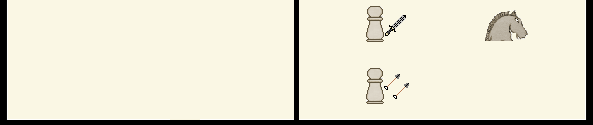
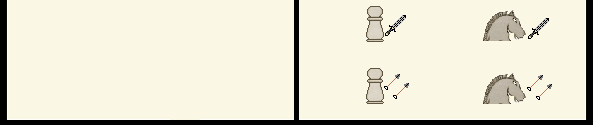
Update 0.6.2.6
- Add filter troop list function in custom unit editor.

Changed region(s): [[0.7892, 0.072, 0.941, 0.336], [0.7892, 0.576, 0.941, 0.84], [0.9106, 0.6, 0.941, 0.624]]

diff --git a/gamescript/gamebattle.py b/gamescript/gamebattle.py
@@ -214,7 +214,8 @@ class Battle:
         self.death_troopnumber = [0, 0, 0]
         self.flee_troopnumber = [0, 0, 0]
         self.capture_troopnumber = [0, 0, 0]
-        self.filtertroop = [True, True, True]
+        self.factionpick = 0
+        self.filtertroop = [True, True, True, True]
         self.last_selected = None
         self.before_selected = None
 
@@ -683,6 +684,48 @@ class Battle:
                             icon.kill()
                 break
 
+    def filtertrooplist(self):
+        """Filter troop list based on faction picked and type filter"""
+        if self.factionpick != 0:
+            self.troop_list = [item[1][0] for item in self.gameunitstat.unit_list.items()
+                               if item[1][0] == "None" or
+                               item[0] in self.allfaction.faction_list[self.factionpick][1]]
+            self.troop_index_list = [0] + self.allfaction.faction_list[self.factionpick][1]
+
+        else:  # pick all faction
+            self.troop_list = [item[0] for item in self.gameunitstat.unit_list.values()][1:]
+            self.troop_index_list = list(range(0, len(self.troop_list)))
+
+        print(self.troop_index_list)
+        print(self.troop_list)
+        for unit in self.troop_index_list[::-1]:
+            if unit != 0:
+                if self.filtertroop[0] is False:  # filter out melee infantry
+                    if self.gameunitstat.unit_list[unit][8] > self.gameunitstat.unit_list[unit][12] and \
+                            self.gameunitstat.unit_list[unit][29] == [1, 0, 1]:
+                        self.troop_list.pop(self.troop_index_list.index(unit))
+                        self.troop_index_list.remove(unit)
+
+                if self.filtertroop[1] is False:  # filter out range infantry
+                    if self.gameunitstat.unit_list[unit][22] != [1, 0] and \
+                            self.gameunitstat.unit_list[unit][8] < self.gameunitstat.unit_list[unit][12] and \
+                            self.gameunitstat.unit_list[unit][29] == [1, 0, 1]:
+                        self.troop_list.pop(self.troop_index_list.index(unit))
+                        self.troop_index_list.remove(unit)
+
+                if self.filtertroop[2] is False:  # filter out melee cav
+                    if self.gameunitstat.unit_list[unit][8] > self.gameunitstat.unit_list[unit][12] and \
+                            self.gameunitstat.unit_list[unit][29] != [1, 0, 1]:
+                        self.troop_list.pop(self.troop_index_list.index(unit))
+                        self.troop_index_list.remove(unit)
+
+                if self.filtertroop[3] is False:  # filter out range cav
+                    if self.gameunitstat.unit_list[unit][22] != [1, 0] and \
+                            self.gameunitstat.unit_list[unit][8] < self.gameunitstat.unit_list[unit][12] and \
+                            self.gameunitstat.unit_list[unit][29] != [1, 0, 1]:
+                        self.troop_list.pop(self.troop_index_list.index(unit))
+                        self.troop_index_list.remove(unit)
+
     def changestate(self):
         self.previous_gamestate = self.gamestate
         if self.gamestate == 1:  # change to battle state
@@ -811,6 +854,8 @@ class Battle:
 
             del self.currentweather
 
+            self.factionpick = 0
+            self.filtertroop = [True, True, True, True]
             self.troop_list = [item[0] for item in self.gameunitstat.unit_list.values()][
                               1:]  # reset troop filter back to all faction
             self.troop_index_list = list(range(0, len(self.troop_list) + 1))
@@ -1897,12 +1942,9 @@ class Battle:
                                                     self.current_troop_row = 0
 
                                                     if mouse_up:
+                                                        self.factionpick = index
+                                                        self.filtertrooplist()
                                                         if index != 0:  # pick faction
-                                                            self.troop_list = [item[1][0] for item in self.gameunitstat.unit_list.items()
-                                                                               if item[1][0] == "None" or
-                                                                               item[0] in self.allfaction.faction_list[index][1]]
-                                                            self.troop_index_list = [0] + self.allfaction.faction_list[index][1]
-
                                                             self.leader_list = [item[1][0] for thisindex, item in
                                                                                 enumerate(self.leader_stat.leader_list.items())
                                                                                 if thisindex > 0 and (item[1][0] == "None" or
@@ -1910,9 +1952,6 @@ class Battle:
                                                                                                       item[0] in self.allfaction.faction_list[index][2])]
 
                                                         else:  # pick all faction
-                                                            self.troop_list = [item[0] for item in self.gameunitstat.unit_list.values()][1:]
-                                                            self.troop_index_list = list(range(0, len(self.troop_list) + 1))
-
                                                             self.leader_list = self.leader_list = [item[0] for item in
                                                                                                    self.leader_stat.leader_list.values()][1:]
 
@@ -2058,12 +2097,20 @@ class Battle:
                                                             box.changetick(True)
                                                         else:
                                                             box.changetick(False)
-                                                        if box.option == "melee":
+                                                        if box.option == "meleeinf":
                                                             self.filtertroop[0] = box.tick
-                                                        elif box.option == "range":
+                                                        elif box.option == "rangeinf":
                                                             self.filtertroop[1] = box.tick
-                                                        elif box.option == "cavalry":
+                                                        elif box.option == "meleecav":
                                                             self.filtertroop[2] = box.tick
+                                                        elif box.option == "rangecav":
+                                                            self.filtertroop[3] = box.tick
+                                                        if self.current_list_show == "troop":
+                                                            self.current_troop_row = 0
+                                                            self.filtertrooplist()
+                                                            self.main.setuplist(gameprepare.Namelist, self.current_troop_row, self.troop_list,
+                                                                                self.troop_namegroup,
+                                                                                self.troop_listbox, self.battleui)  # setup troop name list
                                     elif self.terrain_change_button.rect.collidepoint(self.mousepos) and mouse_up:  # change map terrain button
                                         self.uiclick = True
                                         self.popuplist_newopen(self.terrain_change_button.rect.midtop, self.battlemap_base.terrainlist, "terrain")

diff --git a/main.py b/main.py
@@ -448,13 +448,16 @@ try:  # for printing error log when error exception happen
             img1 = load_image("tick_box_no.png", "ui\\mainmenu_ui").convert()  # start test button in editor
             img2 = load_image("tick_box_yes.png", "ui\\mainmenu_ui").convert()  # stop test button
             self.tickbox_filter = [gameprepare.Tickbox((self.filterbox.rect.bottomright[0] / 1.26, self.filterbox.rect.bottomright[1] / 8),
-                                                         img1, img2, "melee"),
+                                                         img1, img2, "meleeinf"),
                                    gameprepare.Tickbox((self.filterbox.rect.bottomright[0] / 1.26, self.filterbox.rect.bottomright[1] / 1.7),
-                                                         img1, img2, "range"),
+                                                         img1, img2, "rangeinf"),
                                    gameprepare.Tickbox((self.filterbox.rect.bottomright[0] / 1.11, self.filterbox.rect.bottomright[1] / 8),
-                                                         img1, img2, "cavalry")]
+                                                         img1, img2, "meleecav"),
+                                   gameprepare.Tickbox((self.filterbox.rect.bottomright[0] / 1.11, self.filterbox.rect.bottomright[1] / 1.7),
+                                                       img1, img2, "rangecav")
+                                   ]
             for box in self.tickbox_filter:  # default start filter with all shown
-                box.tick = True
+                box.changetick(True)
             self.tickbox.add(*self.tickbox_filter)
             self.warningmsg = gameunitedit.Warningmsg((self.test_button.rect.bottomleft[0], self.test_button.rect.bottomleft[1]))
             # ^ End unit editor
